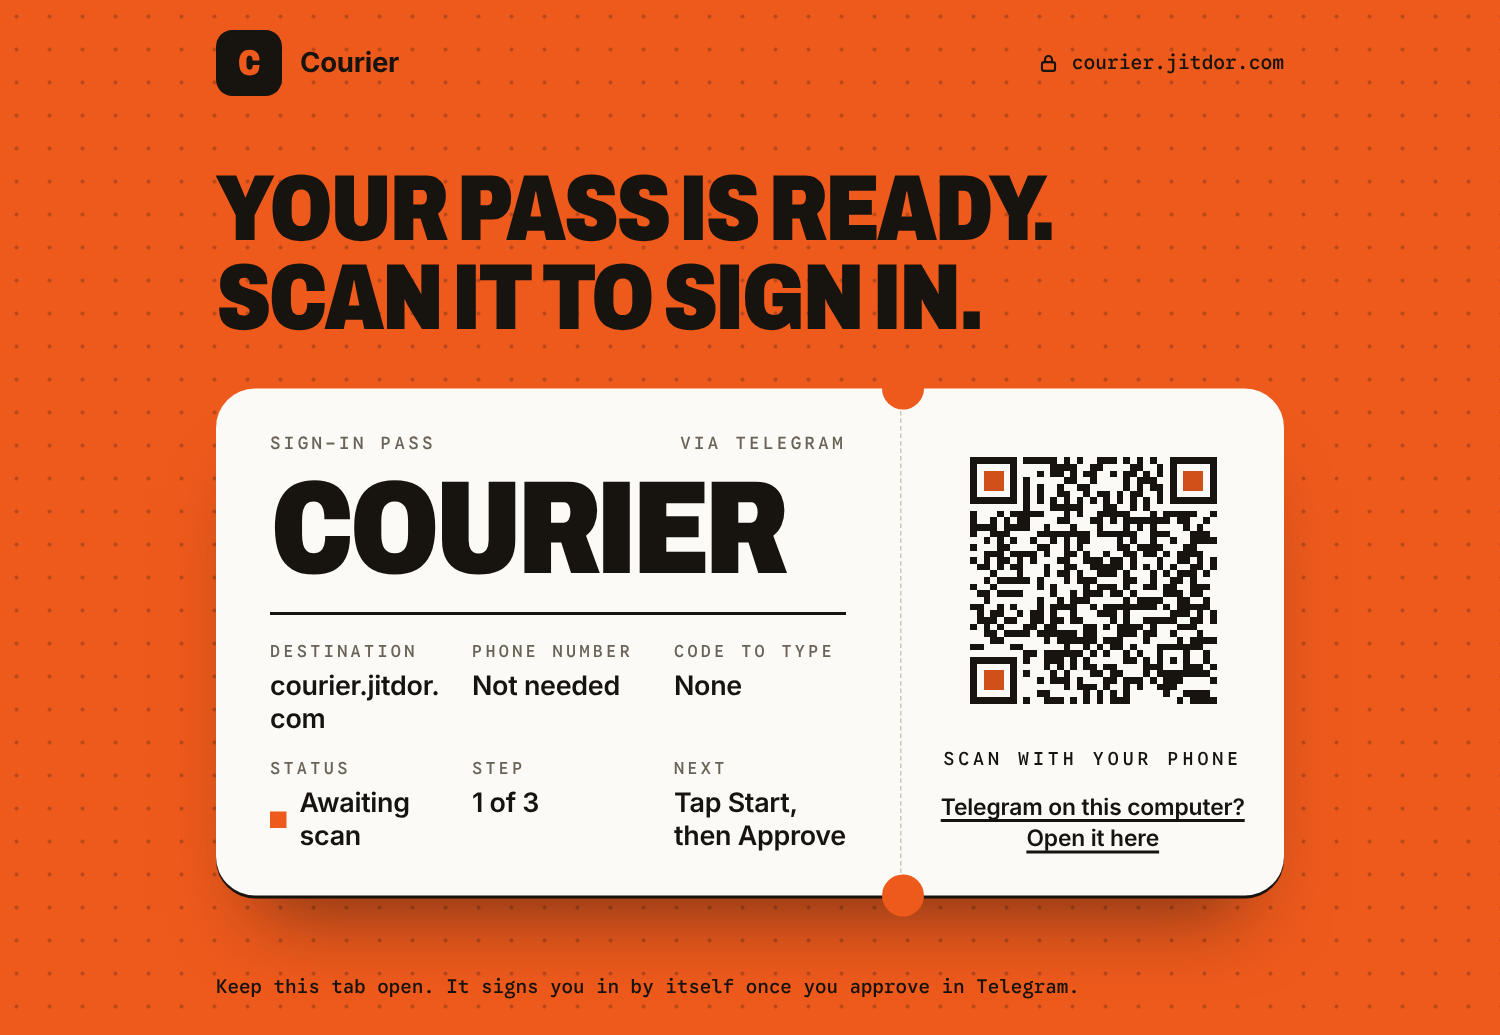
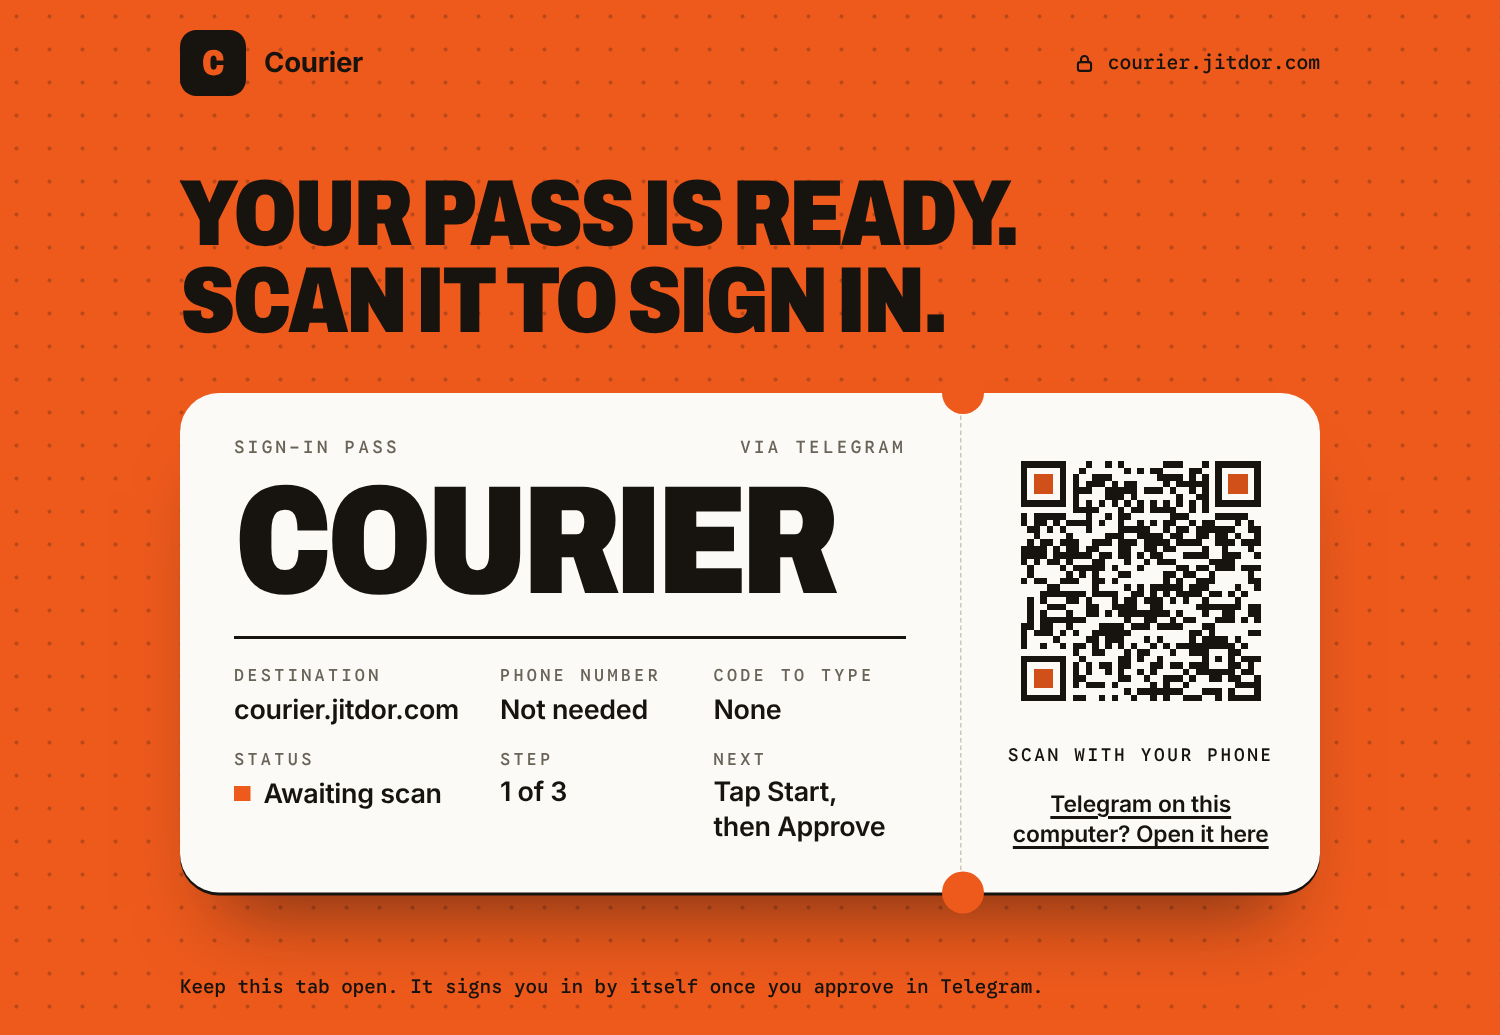
Polish the pass layout so addresses and labels stay on one line
On a computer the destination broke mid-address ("courier.jitdor. / com") and
"Awaiting scan" wrapped. The page is a little wider (50rem), the stub slimmer
(15rem), the first field column wider, and the field values and the stub
caption balance their wrapping. Docs screenshots refreshed.

Claude-Session: https://claude.ai/code/session_01Fm8P6ct3acd1WpajC3GeS1

diff --git a/src/login-page.js b/src/login-page.js
@@ -204,7 +204,7 @@ function loginStyles(branding, fontsPath) {
     color: var(--tqa-on); font: 16px/1.5 var(--tqa-font); -webkit-font-smoothing: antialiased; text-rendering: optimizeLegibility;
   }
   .tqa-page {
-    display: flex; flex-direction: column; width: min(100%, 47rem); min-height: 100vh; min-height: 100dvh; margin: 0 auto;
+    display: flex; flex-direction: column; width: min(100%, 50rem); min-height: 100vh; min-height: 100dvh; margin: 0 auto;
     padding: max(20px, env(safe-area-inset-top)) 20px max(22px, env(safe-area-inset-bottom));
   }
   .tqa-top { display: flex; align-items: center; justify-content: space-between; gap: 14px; min-width: 0; }
@@ -247,7 +247,7 @@ function loginStyles(branding, fontsPath) {
   .tqa-fields { display: grid; grid-template-columns: repeat(2, minmax(0, 1fr)); gap: 16px 20px; margin: 18px 0 0; }
   .tqa-field { min-width: 0; }
   .tqa-field dt { font: 500 0.7rem/1.2 var(--tqa-mono); letter-spacing: 0.2em; text-transform: uppercase; color: var(--tqa-muted); }
-  .tqa-field dd { margin: 4px 0 0; font-weight: 600; font-size: 1.12rem; line-height: 1.25; letter-spacing: -0.01em; overflow-wrap: anywhere; }
+  .tqa-field dd { margin: 4px 0 0; font-weight: 600; font-size: 1.12rem; line-height: 1.25; letter-spacing: -0.01em; overflow-wrap: anywhere; text-wrap: balance; }
   .tqa-f-dest { grid-column: 1 / -1; }
   .tqa-f-next { display: none; }
   .tqa-status { display: inline-flex; align-items: center; gap: 0.5em; }
@@ -281,7 +281,7 @@ function loginStyles(branding, fontsPath) {
   .tqa-qr svg > rect:first-child { fill: var(--tqa-paper); }
   .tqa-qr svg > path { fill: var(--tqa-ink); }
   .tqa-qr svg .qr-eye { fill: color-mix(in srgb, var(--tqa-accent) 88%, #000); }
-  .tqa-cap { margin: 0; font: 500 0.76rem/1.4 var(--tqa-mono); letter-spacing: 0.22em; text-transform: uppercase; text-align: center; }
+  .tqa-cap { margin: 0; font: 500 0.74rem/1.4 var(--tqa-mono); letter-spacing: 0.15em; text-transform: uppercase; text-align: center; text-wrap: balance; }
   .tqa-cap-other { display: none; }
   .tqa-here, .tqa-switch {
     appearance: none; margin: 0; padding: 0; border: 0; background: none; cursor: pointer; color: var(--tqa-ink);
@@ -326,12 +326,13 @@ function loginStyles(branding, fontsPath) {
   /* Wide enough for the stub to sit beside the ticket. */
   @media (min-width: 640px) {
     .tqa-main { padding: 30px 36px 28px; }
-    .tqa-fields { grid-template-columns: repeat(3, minmax(0, 1fr)); }
+    /* The first column carries the address and the status, which are the longest values. */
+    .tqa-fields { grid-template-columns: minmax(0, 1.4fr) minmax(0, 1.1fr) minmax(0, 1.1fr); column-gap: 14px; }
     .tqa-f-dest { grid-column: auto; }
     .tqa-f-next { display: block; }
   }
   @media (min-width: 900px) {
-    .tqa-ticket { grid-template-columns: minmax(0, 1fr) 16rem; }
+    .tqa-ticket { grid-template-columns: minmax(0, 1fr) 15rem; }
     .tqa-stub { justify-content: center; padding: 28px 22px; border-top: 0; border-left: 1.5px dashed var(--tqa-rule); }
     .tqa-stub::before { top: calc(var(--tqa-notch) * -1); left: calc(var(--tqa-notch) * -1 + 0.75px); }
     .tqa-stub::after { top: auto; right: auto; bottom: calc(var(--tqa-notch) * -1); left: calc(var(--tqa-notch) * -1 + 0.75px); }
